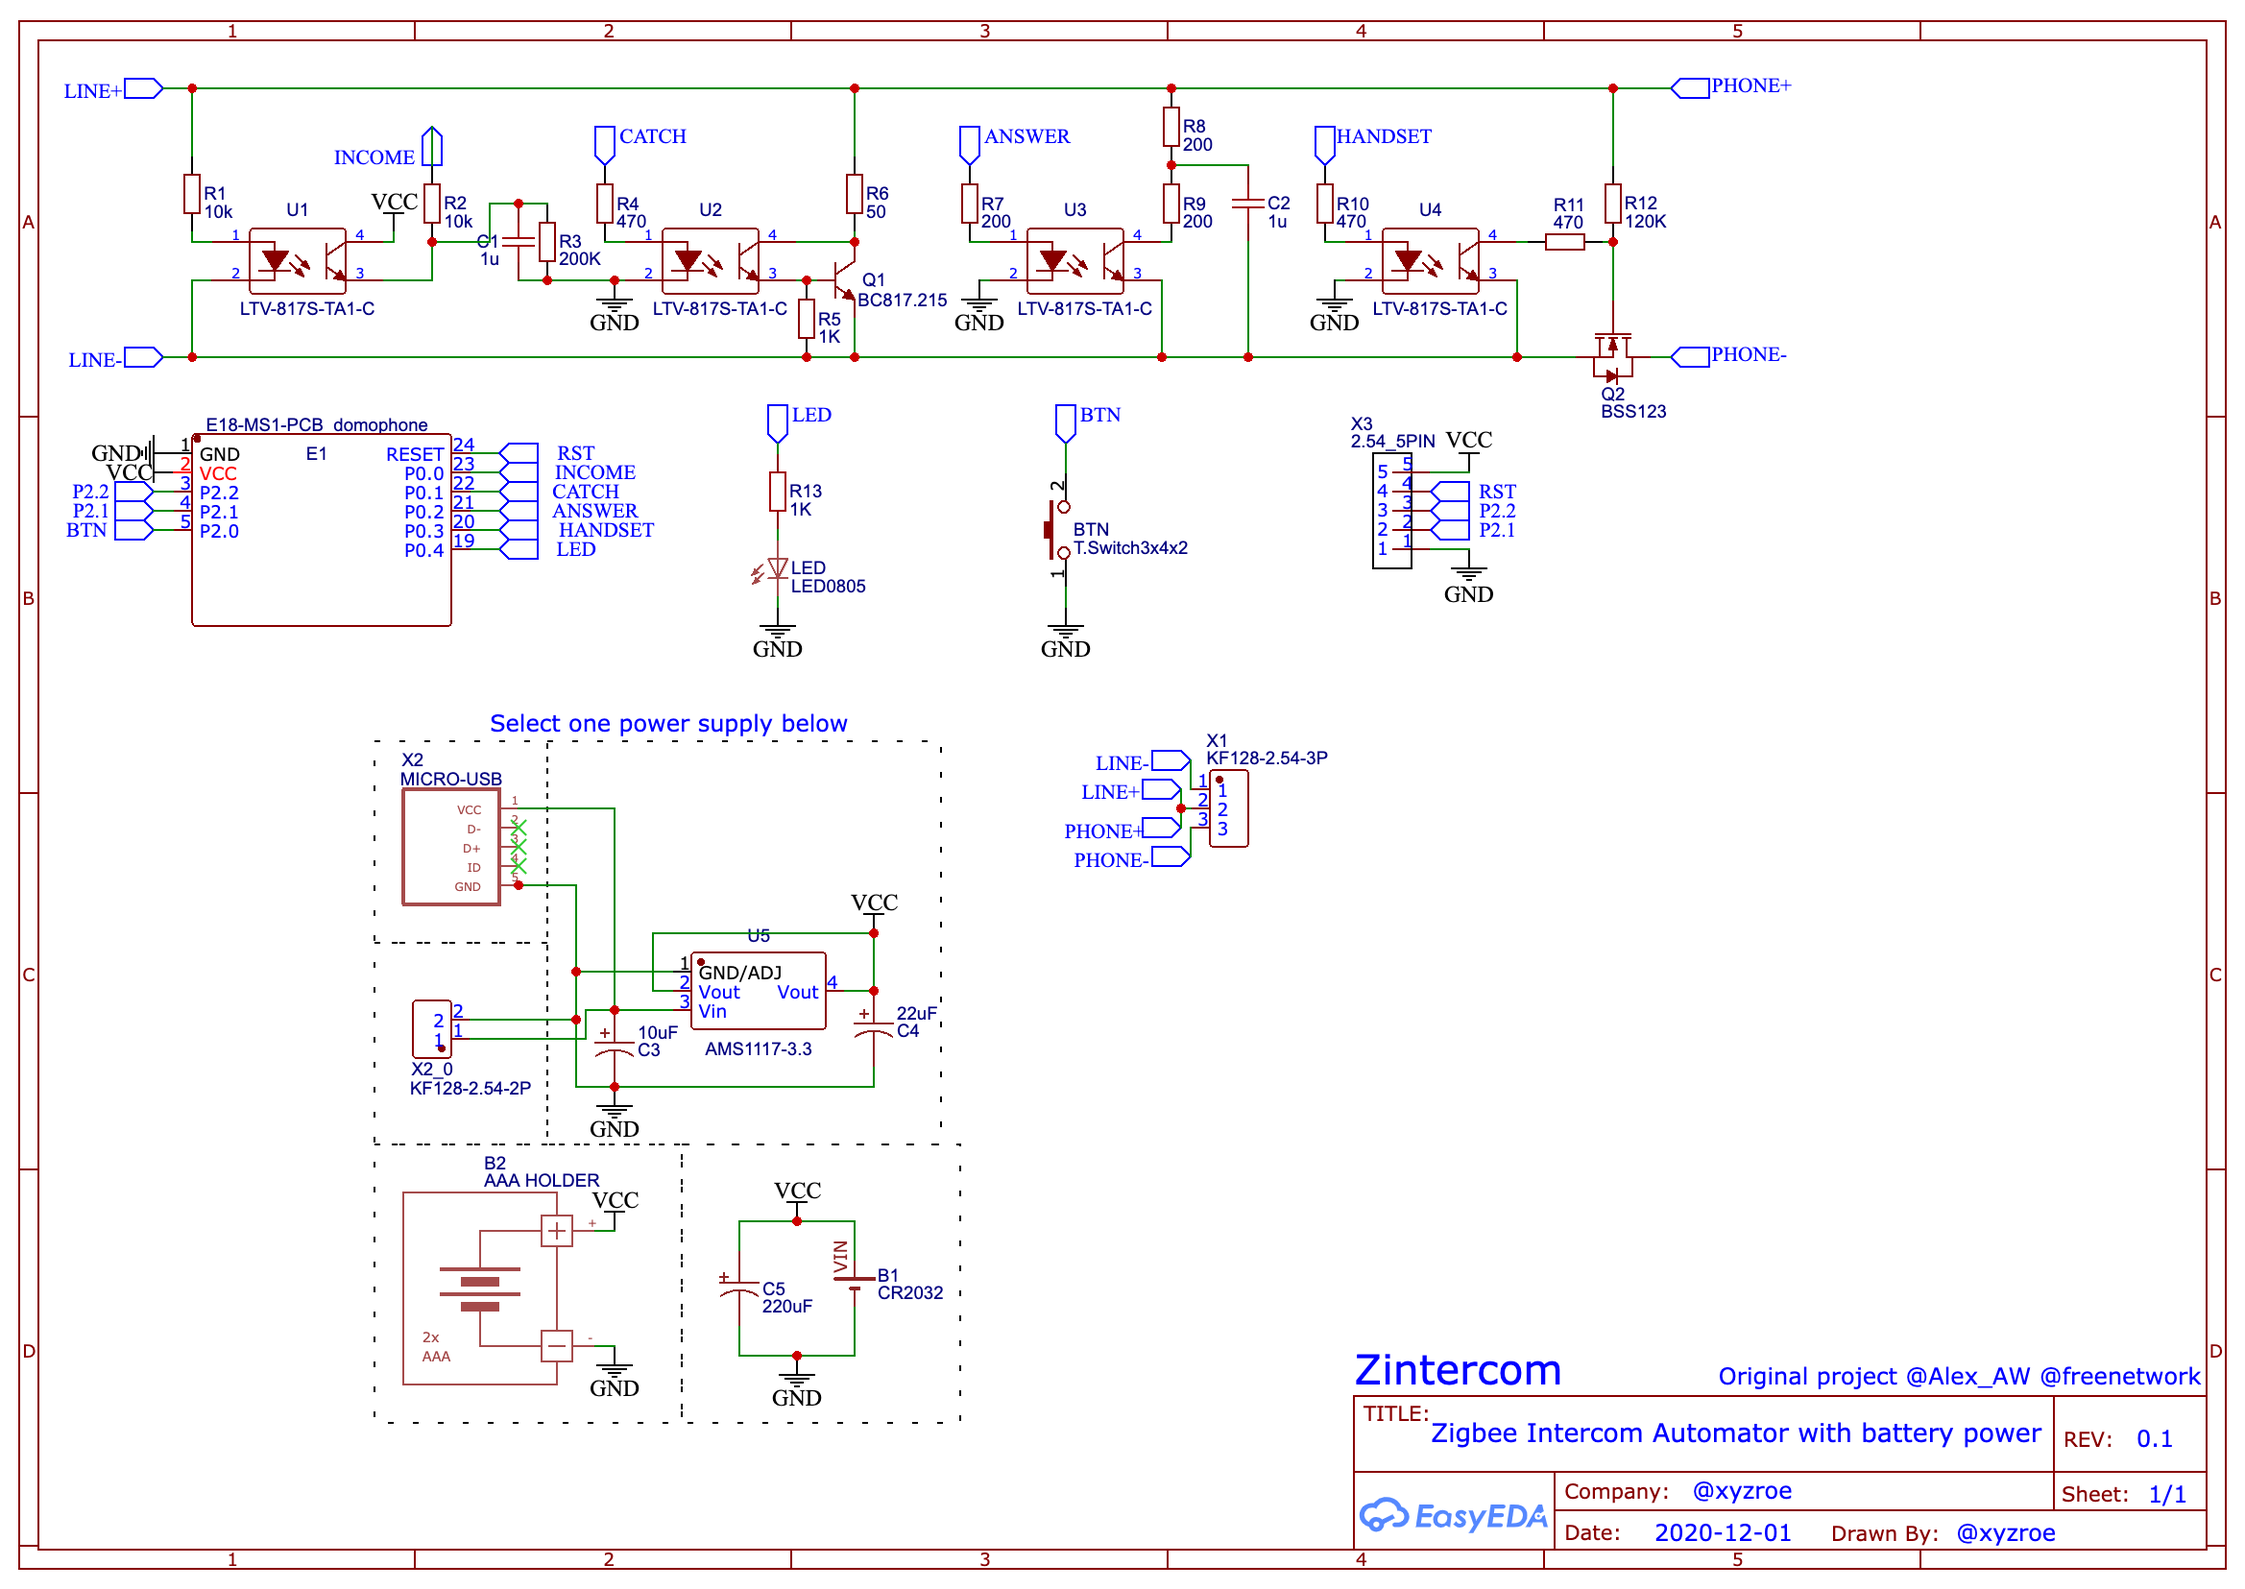
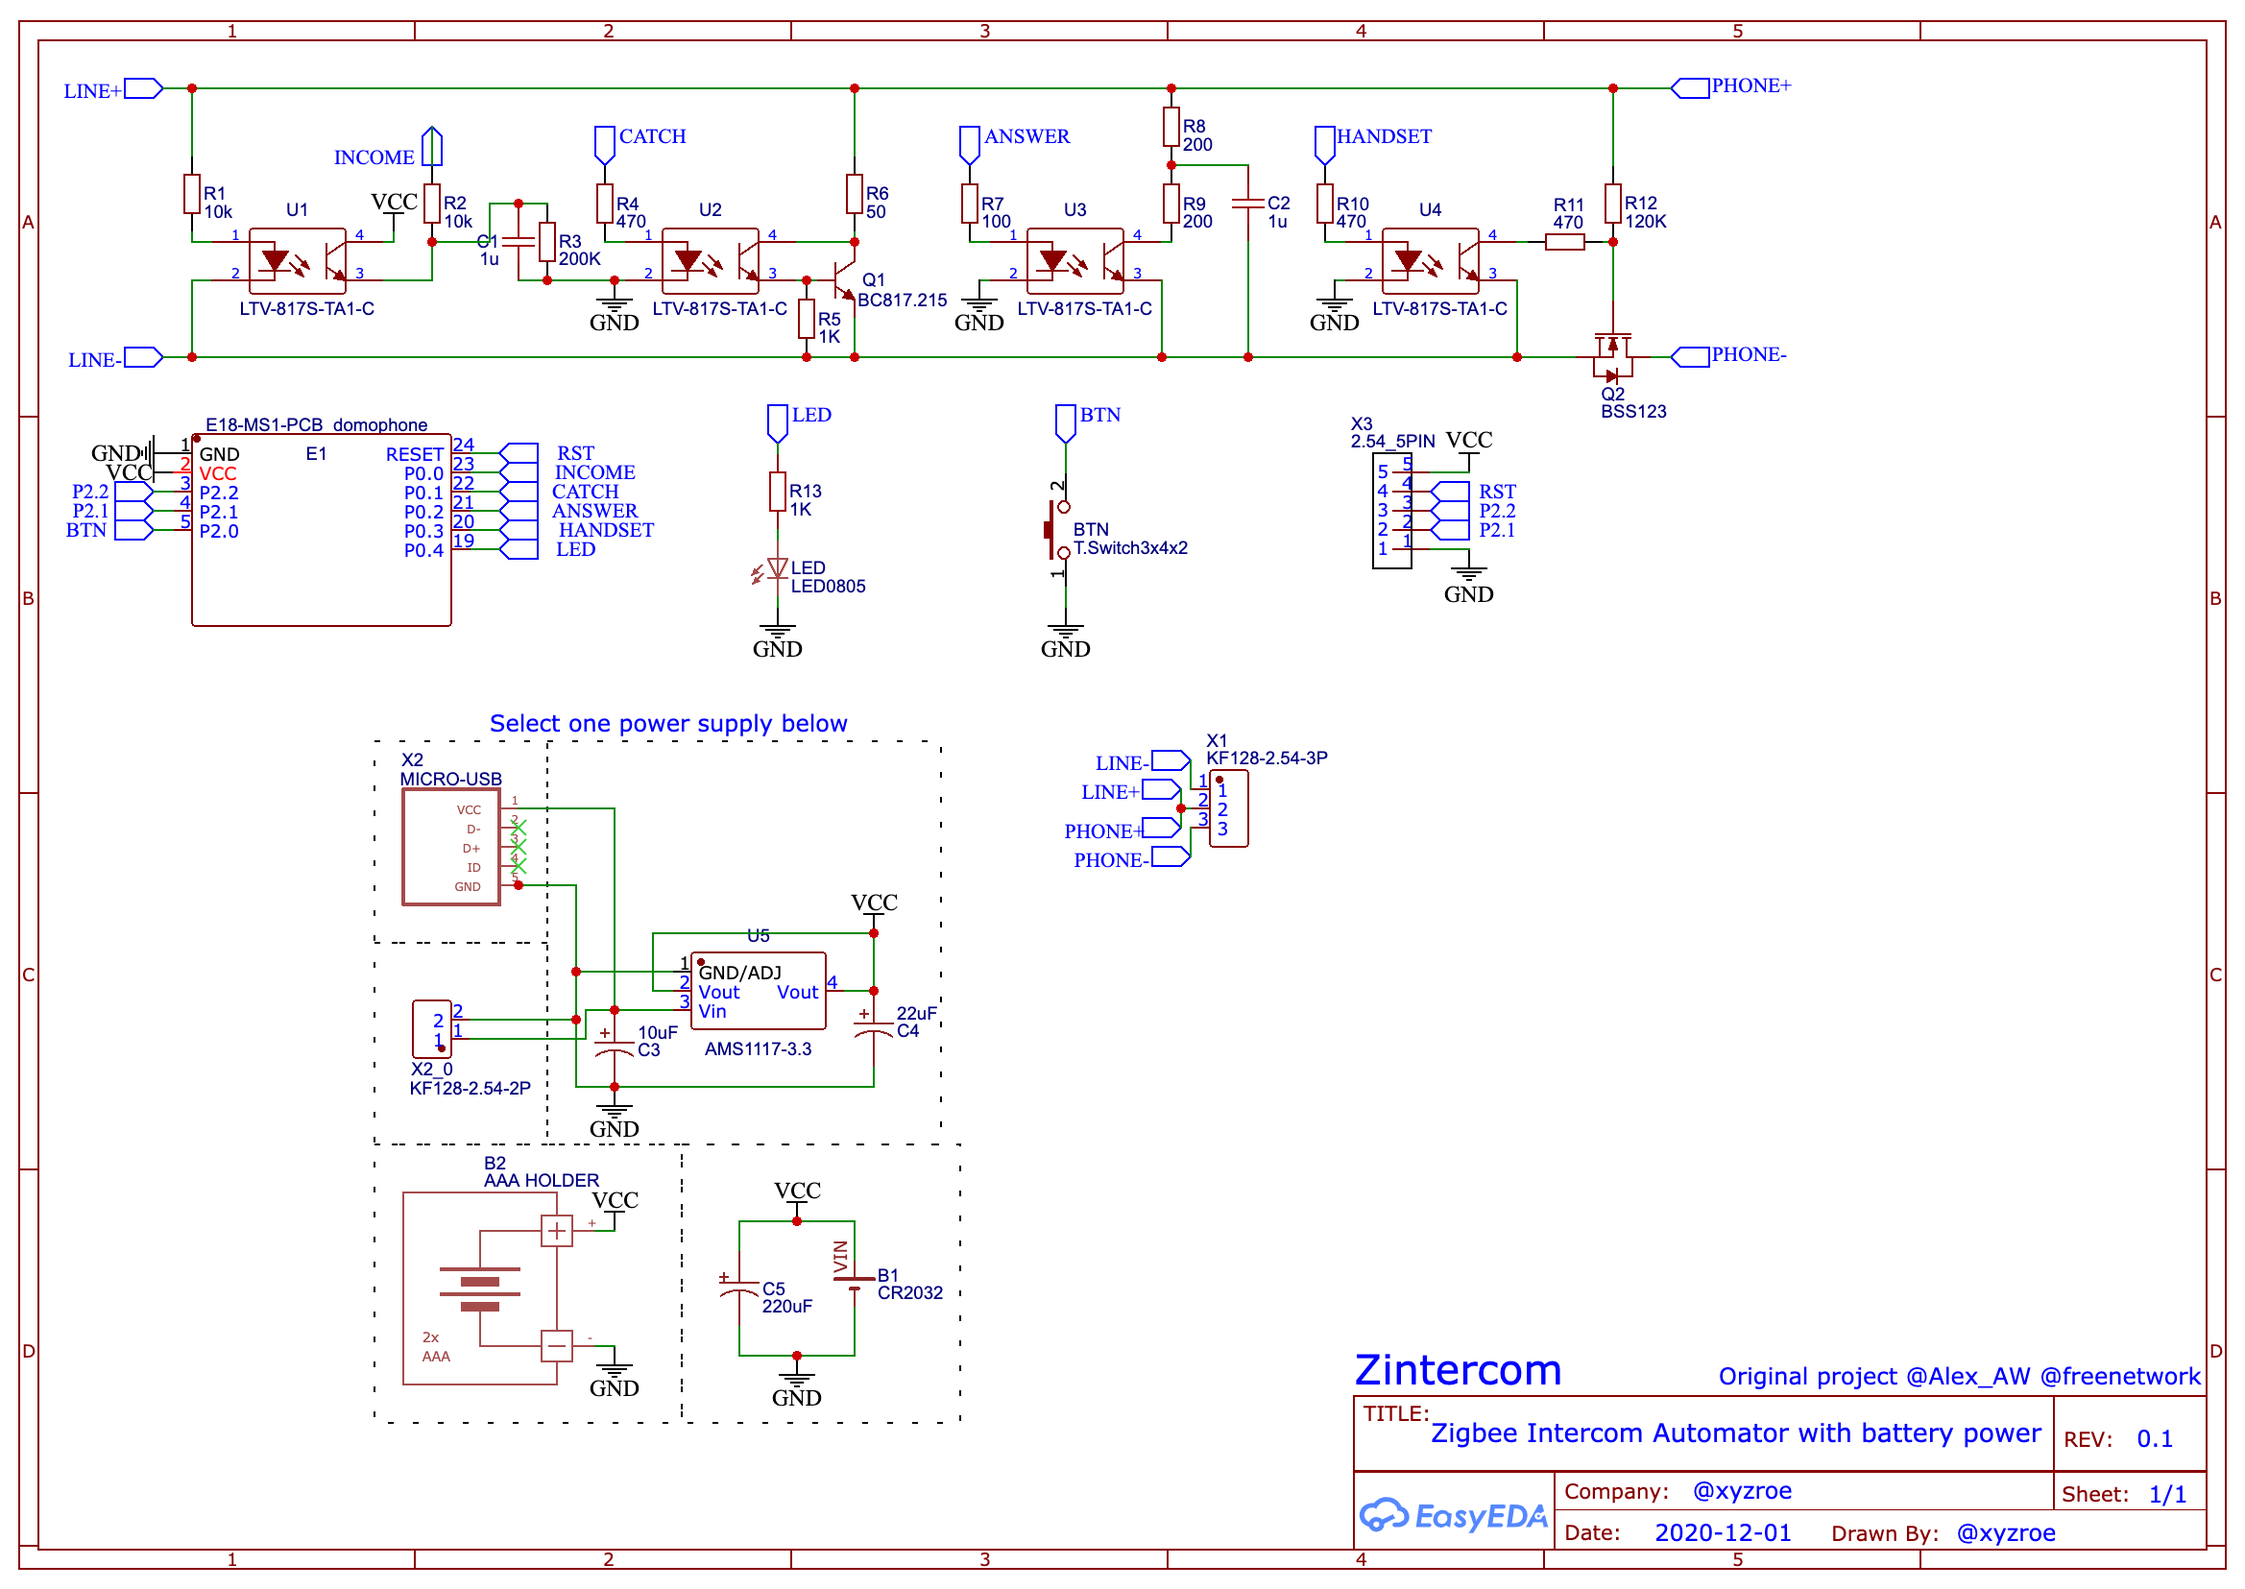
v0.2
some code rework and cleanup
R7 changed to 100 ohm
converter exposes renamed

Changed region(s): [[0.7494, 0.9245, 0.7806, 0.9553], [0.2498, 0.3082, 0.281, 0.339], [0.0312, 0.2773, 0.0624, 0.3082]]

diff --git a/converters/DIY_Zintercom.js b/converters/DIY_Zintercom.js
@@ -4,7 +4,8 @@ const {
     exposes
 } = require('zigbee-herdsman-converters');
 
-const e = exposes.presets;
+const ep = exposes.presets;
+const ea = exposes.access;
 
 const ZCL_DATATYPE_INT16 = 0x29;
 const ZCL_DATATYPE_UINT8 = 0x20;
@@ -61,46 +62,6 @@ const repInterval = {
     MINUTES_5: 300,
     MINUTE: 60,
 };
-//const ACCESS_STATE = 0b001, ACCESS_WRITE = 0b010, ACCESS_READ = 0b100;
-
-const hass = {
-    co2: {
-        type: 'sensor',
-        object_id: 'co2',
-        discovery_payload: {
-            unit_of_measurement: 'ppm',
-            icon: 'mdi:molecule-co2',
-            value_template: '{{ value_json.co2 }}',
-        },
-    },
-    temperature: {
-        type: 'sensor',
-        object_id: 'temperature',
-        discovery_payload: {
-            unit_of_measurement: '°C',
-            device_class: 'temperature',
-            value_template: '{{ value_json.temperature }}',
-        },
-    },
-    humidity: {
-        type: 'sensor',
-        object_id: 'humidity',
-        discovery_payload: {
-            unit_of_measurement: '%',
-            device_class: 'humidity',
-            value_template: '{{ value_json.humidity }}',
-        },
-    },
-    presure: {
-        type: 'sensor',
-        object_id: 'pressure',
-        discovery_payload: {
-            unit_of_measurement: 'hPa',
-            device_class: 'pressure',
-            value_template: '{{ value_json.pressure }}',
-        },
-    }
-};
 
 
 
@@ -114,10 +75,10 @@ const fz = {
               result.state = ['Idle', 'Ring', 'Talk', 'Open', 'Drop'][msg.data[0x0050]];
           }
           if (msg.data.hasOwnProperty(0x0051)) {
-              result.mode_open = ['Never', 'Once', 'Always', 'Drop'][msg.data[0x0051]];
+              result.mode = ['Never', 'Once', 'Always', 'Drop'][msg.data[0x0051]];
           }
           if (msg.data.hasOwnProperty(0x0052)) {
-              result.mode_sound = ['OFF', 'ON'][msg.data[0x0052]];
+              result.sound = ['OFF', 'ON'][msg.data[0x0052]];
           }
           if (msg.data.hasOwnProperty(0x0053)) {
               result.time_ring = msg.data[0x0053];
@@ -138,7 +99,7 @@ const fz = {
 
 const tz = {
   diy_zintercom_config: {
-      key: ['state', 'mode_open', 'mode_sound', 'time_ring', 'time_talk', 'time_open', 'time_report'],
+      key: ['state', 'mode', 'sound', 'time_ring', 'time_talk', 'time_open', 'time_report'],
       convertSet: async (entity, key, rawValue, meta) => {
           const lookup = {
               'OFF': 0x00,
@@ -154,13 +115,13 @@ const tz = {
 
           let value = lookup.hasOwnProperty(rawValue) ? lookup[rawValue] : parseInt(rawValue, 10);
 
-          if (key == 'mode_open') {
+          if (key == 'mode') {
               value = modeOpenLookup.hasOwnProperty(rawValue) ? modeOpenLookup[rawValue] : parseInt(rawValue, 10);
           }
 
           const payloads = {
-              mode_open: {0x0051: {value, type: 0x30}},
-              mode_sound: {0x0052: {value, type: 0x10}},
+              mode: {0x0051: {value, type: 0x30}},
+              sound: {0x0052: {value, type: 0x10}},
               time_ring: {0x0053: {value, type: 0x20}},
               time_talk: {0x0054: {value, type: 0x20}},
               time_open: {0x0055: {value, type: 0x20}},
@@ -175,8 +136,8 @@ const tz = {
       convertGet: async (entity, key, meta) => {
           const payloads = {
               state: ['closuresDoorLock', 0x0050],
-              mode_open: ['closuresDoorLock', 0x0051],
-              mode_sound: ['closuresDoorLock', 0x0052],
+              mode: ['closuresDoorLock', 0x0051],
+              sound: ['closuresDoorLock', 0x0052],
               time_ring: ['closuresDoorLock', 0x0053],
               time_talk: ['closuresDoorLock', 0x0054],
               time_open: ['closuresDoorLock', 0x0055],
@@ -195,12 +156,6 @@ const device = {
     supports: '',
     //homeassistant: [hass.temperature, hass.presure, hass.humidity, hass.co2],
     fromZigbee: [
-      /*
-        fromZigbeeConverters.temperature,
-        fromZigbeeConverters.humidity,
-        fromZigbeeConverters.co2,
-        fromZigbeeConverters.pressure,
-        */
         fromZigbeeConverters.battery,
         fz.diy_zintercom_config,
     ],
@@ -254,8 +209,8 @@ const device = {
             minimumReportInterval: 0,
             maximumReportInterval: 3600,
             reportableChange: 0,
-        },
-      ];
+          },
+        ];
         await firstEndpoint.configureReporting('closuresDoorLock', payload);
         /**/
         /*
@@ -274,22 +229,22 @@ const device = {
 
     },
     exposes: [
-        //exposes.numeric('co2', ACCESS_STATE).withUnit('ppm'),
-        e.battery(),
-        exposes.enum('state', exposes.access.STATE_GET, ['Idle', 'Ring', 'Talk', 'Open', 'Drop'])
+        exposes.enum('state', ea.STATE_GET, ['Idle', 'Ring', 'Talk', 'Open', 'Drop'])
             .withDescription('Current state'),
-        exposes.enum('mode_open', exposes.access.ALL, ['Never', 'Once', 'Always', 'Drop'])
-            .withDescription('Auto open mode'),
-        exposes.binary('mode_sound', exposes.access.ALL, 'ON', 'OFF')
-            .withDescription('Sound mode'),
-        exposes.numeric('time_ring', exposes.access.ALL).withUnit('sec')
-            .withDescription('Time to ring'),
-        exposes.numeric('time_talk', exposes.access.ALL).withUnit('sec')
-            .withDescription('Time to "speak" before open'),
-        exposes.numeric('time_open', exposes.access.ALL).withUnit('sec')
-            .withDescription('Time to "hold open button"'),
-        exposes.numeric('time_report', exposes.access.ALL).withUnit('min')
+        exposes.enum('mode', ea.ALL, ['Never', 'Once', 'Always', 'Drop'])
+            .withDescription('Select open mode'),
+        exposes.binary('sound', ea.ALL, 'ON', 'OFF').withProperty('sound')
+            .withDescription('Enable or disable sound'),
+        exposes.numeric('time_ring', ea.ALL).withUnit('sec')
+            .withDescription('Time to ring before answer'),
+        exposes.numeric('time_talk', ea.ALL).withUnit('sec')
+            .withDescription('Time to hold before open'),
+        exposes.numeric('time_open', ea.ALL).withUnit('sec')
+            .withDescription('Time to open before end'),
+        exposes.numeric('time_report', ea.ALL).withUnit('min')
             .withDescription('Reporting interval'),
+        ep.battery(),
+        ep.linkquality(),
     ],
 };
 

diff --git a/Source/zcl_app.c b/Source/zcl_app.c
@@ -123,44 +123,29 @@ void zclApp_Init(byte task_id) {
     LREP("Build %s \r\n", zclApp_DateCodeNT);
 
     zclApp_ConfigInit(TIMER_START);
+    IO_IMODE_PORT_PIN(0,0,IO_TRI);
+        
     #if defined( ZIC_BATTERY_MODE )
         ZMacSetTransmitPower(TX_PWR_PLUS_4); // set 4dBm
     #endif
 }
+
+
 static void zclApp_HandleKeys(byte portAndAction, byte keyCode) {
 
-    LREP("zclApp_HandleKeys portAndAction=0x%X keyCode=0x%X\r\n", portAndAction, keyCode);
-    zclCommissioning_HandleKeys(portAndAction, keyCode);
+    //LREP("zclApp_HandleKeys portAndAction=0x%X keyCode=0x%X\r\n", portAndAction, keyCode);
+    //zclCommissioning_HandleKeys(portAndAction, keyCode);
     
     if (portAndAction & 0x01) { //P0 Ring //S1 P0_1
-      /*
-      afAddrType_t inderect_DstAddr = {.addrMode = (afAddrMode_t)AddrNotPresent, .endPoint = 0, .addr.shortAddr = 0};
+
       if (portAndAction & HAL_KEY_PRESS) {
-          osal_pwrmgr_task_state(zclApp_TaskID, PWRMGR_HOLD);
-          LREPMaster("Ring start\r\n");
-          HalLedSet(LED_PIN, HAL_LED_MODE_BLINK);
-          zclGeneral_SendOnOff_CmdOn(zclApp_FirstEP.EndPoint, &inderect_DstAddr, FALSE, bdb_getZCLFrameCounter());
-          osal_start_reload_timer(zclApp_TaskID, APP_RING_RUN_EVT, 500);
-      }
-      if (portAndAction & HAL_KEY_RELEASE) {
-          zclApp_RingEnd();
-          zclGeneral_SendOnOff_CmdOff(zclApp_FirstEP.EndPoint, &inderect_DstAddr, FALSE, bdb_getZCLFrameCounter());
-          osal_pwrmgr_task_state(zclApp_TaskID, PWRMGR_CONSERVE);
-      }
-      */
-      osal_stop_timerEx(zclApp_TaskID, APP_RING_STOP_EVT);
-      osal_clear_event(zclApp_TaskID, APP_RING_STOP_EVT);
-      if (portAndAction & HAL_KEY_PRESS) {
+
           //osal_pwrmgr_task_state(zclApp_TaskID, PWRMGR_HOLD);
-          //LREPMaster("Ring start\r\n");
-          //HalLedSet(LED_PIN, HAL_LED_MODE_BLINK);
-          //zclGeneral_SendOnOff_CmdOn(zclApp_FirstEP.EndPoint, &inderect_DstAddr, FALSE, bdb_getZCLFrameCounter());
-          //osal_start_reload_timer(zclApp_TaskID, APP_RING_RUN_EVT, 500);
-          //osal_start_reload_timer(zclApp_TaskID, APP_RING_RUN_EVT, 500);  //start ring
-        
+
         
           //exit old stop timer
-          
+          osal_stop_timerEx(zclApp_TaskID, APP_RING_STOP_EVT);
+          osal_clear_event(zclApp_TaskID, APP_RING_STOP_EVT);
         
           //start ring 
           if (zclApp_State.RingRunStep == 0) {
@@ -173,43 +158,22 @@ static void zclApp_HandleKeys(byte portAndAction, byte keyCode) {
           }
         
           //start new stop timer (ring ends timer)
-          
+           osal_start_reload_timer(zclApp_TaskID, APP_RING_STOP_EVT, 3000);
         
-          
-
-          //osal_start_reload_timer(zclApp_TaskID, APP_RING_RUN_EVT, 1000); //stop  ring after 1s of inactive
       }
-      osal_start_reload_timer(zclApp_TaskID, APP_RING_STOP_EVT, 3000);
-      //if (portAndAction & HAL_KEY_RELEASE) {
-         //zclApp_RingEnd();
-         //zclGeneral_SendOnOff_CmdOff(zclApp_FirstEP.EndPoint, &inderect_DstAddr, FALSE, bdb_getZCLFrameCounter());
-         //osal_pwrmgr_task_state(zclApp_TaskID, PWRMGR_CONSERVE);
-      //}
-    
       
     }
 
     if (portAndAction & 0x04) { //P2 Btn //S2 P2_0
       zclFactoryResetter_HandleKeys(portAndAction, keyCode);
       if (portAndAction & HAL_KEY_PRESS) {
-        zclApp_State.pressTime = osal_getClock();
-        LREPMaster("Key press\r\n");
-        LREP("pressTime = %d\r\n", zclApp_State.pressTime);
-      }
-      if (portAndAction & HAL_KEY_RELEASE) {
         #if defined( ZIC_BATTERY_MODE )
           zclBattery_Report();
         #endif
-        LREPMaster("Key release\r\n");
-        uint32 holdTime = osal_getClock() - zclApp_State.pressTime;
-        LREP("holdTime = %d \r\n", holdTime);
-        if (holdTime < 1) {
-          osal_start_reload_timer(zclApp_TaskID, APP_BTN_CLICK_EVT, 50);
-        }
-        else {
-          osal_start_reload_timer(zclApp_TaskID, APP_BTN_HOLD_EVT, 50);
-        }
+        LREPMaster("Key pressed\r\n");
+        osal_start_reload_timer(zclApp_TaskID, APP_BTN_CLICK_EVT, 50);
       }
+
     }
 }
 
@@ -343,6 +307,8 @@ static void zclApp_RingRun(void) {
 
 static void zclApp_TalkStart(void) {
     LREPMaster("Talk start\r\n");
+    osal_stop_timerEx(zclApp_TaskID, APP_RING_STOP_EVT);
+    osal_clear_event(zclApp_TaskID, APP_RING_STOP_EVT);
     zclApp_OneReport();
     HalLedSet(ANSWER_PIN, HAL_LED_MODE_ON);
     if (zclApp_Config.ModeSound == true) {
@@ -376,7 +342,10 @@ static void zclApp_RingEnd(void) {
     if (zclApp_Config.ModeOpen == Once) {
         zclApp_Config.ModeOpen = Never;
     }
-    zclApp_OneReport();     
+    zclApp_OneReport(); 
+    #if defined( ZIC_BATTERY_MODE )
+      zclBattery_Report();
+    #endif    
 }
 
 static void zclApp_BtnClick(bool hold) {
@@ -409,7 +378,7 @@ static void zclApp_BtnClick(bool hold) {
             HalLedBlink(LED_PIN, zclApp_Config.ModeOpen+1, 50, 250);
         }
         break;
-    default:
+    case 3:
         if (hold) {
             osal_stop_timerEx(zclApp_TaskID, APP_BTN_HOLD_EVT);
             osal_clear_event(zclApp_TaskID, APP_BTN_HOLD_EVT);

diff --git a/Source/zcl_app_data.c b/Source/zcl_app_data.c
@@ -65,8 +65,8 @@ const uint8 zclApp_PowerSource = POWER_SOURCE_DC;
 #define DEFAULT_ModeSound      TRUE 
 
 #define DEFAULT_TimeRing       3 //seconds to ring, before answer
-#define DEFAULT_TimeTalk       1 //seconds to talk, before open
-#define DEFAULT_TimeOpen       2 //seconds to hold open
+#define DEFAULT_TimeTalk       2 //seconds to talk, before open
+#define DEFAULT_TimeOpen       1 //seconds to hold open
 
 
 application_config_t zclApp_Config = {

diff --git a/Source/zcl_app.h b/Source/zcl_app.h
@@ -21,9 +21,9 @@ extern "C" {
 #define APP_SAVE_ATTRS_EVT 0x0002
 #define APP_BTN_CLICK_EVT 0x0004
 #define APP_RING_RUN_EVT 0x0008
-#define APP_BTN_HOLD_EVT 0x0010
-#define APP_RING_STOP_EVT 0x0012
-#define APP_TALK_START_EVT 0x0014
+#define APP_BTN_HOLD_EVT 0x0016
+#define APP_RING_STOP_EVT 0x0032
+#define APP_TALK_START_EVT 0x0064
   
 /*********************************************************************
  * MACROS

diff --git a/Source/hal_board_cfg.h b/Source/hal_board_cfg.h
@@ -117,9 +117,10 @@
 #define ACTIVE_HIGH       !!    /* double negation forces result to be '1' */
 
 /* S1 */
-#define PUSH1_BV          BV(1)
-#define PUSH1_SBIT        P0_1
-
+#define PUSH1_BV          BV(0)
+#define PUSH1_SBIT        P2_0
+   
+ //???????????????????????????????
 
 
 
